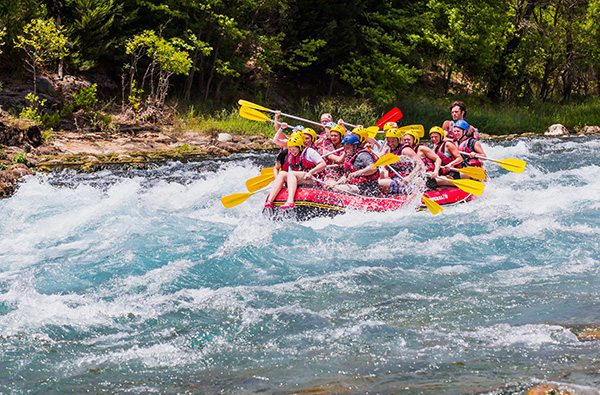
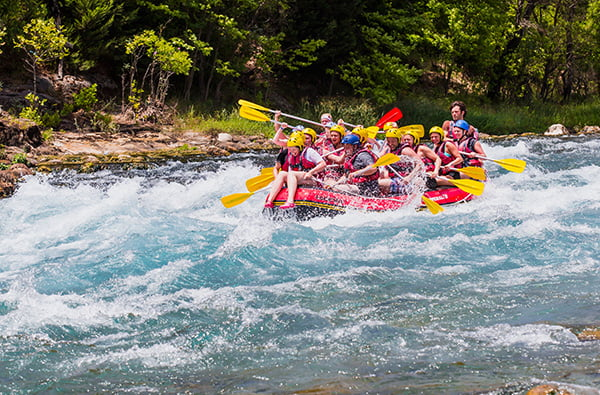
Adjusted picture size

diff --git a/wwr/about.html b/wwr/about.html
@@ -1,8 +1,12 @@
 <!DOCTYPE html>
-<html>
+<html lang="en-US">
   <head>
     <meta charset="utf-8" />
     <meta name="viewport" content="width=device-width, initial-scale=1.0" />
+    <meta
+      name="description"
+      content="Rafting Travel About Us page tells what the company is about"
+    />
     <meta name="author" content="Rex Roger Rayla" />
     <link rel="preconnect" href="https://fonts.gstatic.com" crossorigin />
     <link rel="preconnect" href="fonts.googleapis.com" />
